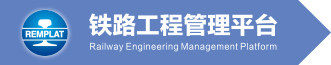
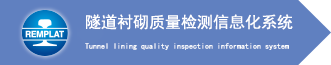
更新了首页显示

Changed region(s): [[0.2417, 0.1846, 0.9063, 0.5538], [0.2417, 0.6462, 0.8761, 0.8]]

diff --git a/src/views/system/detectionInformation/index.vue b/src/views/system/detectionInformation/index.vue
@@ -157,13 +157,13 @@
         <el-table-column prop="testId" label="报检号" />
         <el-table-column prop="detectionLineBiaohao" label="测线编号" />
         <el-table-column prop="detectionData" label="检测数据-上传/下载" />
-        <el-table-column prop="detectionPhotos" label="现场照片-上传/下载"></el-table-column>
-        <el-table-column prop="radarPhotos" label="雷达图谱-上传/下载" >
+        <el-table-column prop="detectionPhotos" label="现场照片-上传/下载" />
+        <el-table-column prop="radarPhotos" label="雷达图谱-上传/下载">
           <template slot-scope="scope">
             <el-button mutilline="true" type="text" @click="updateRadarPhotosDialog(scope.row)">上传</el-button>
             <el-button mutilline="true" type="text" @click="downloadRadarPhotos(scope.row,scope.row.radarPhotos)">下载</el-button>
             {{ scope.row.radarPhotos }}
-            <el-dialog append-to-body :close-on-click-modal="false"  :visible.sync="uploadRadarDialogIs" :title="crud.status.add ? '文件上传' : '编辑文件'" width="500px">
+            <el-dialog append-to-body :close-on-click-modal="false" :visible.sync="uploadRadarDialogIs" :title="crud.status.add ? '文件上传' : '编辑文件'" width="500px">
               <el-form ref="form" :model="form" size="small" label-width="80px">
                 <el-form-item label="上传">
                   <!--   上传文件   -->
@@ -175,7 +175,7 @@
                     :headers="headers"
                     :on-success="handleSuccess"
                     :on-error="handleError"
-                    :action=updateRadarPhotoPath
+                    :action="updateRadarPhotoPath"
                     :data="{data:dataid}"
                   >
                     <div class="eladmin-upload" onclick=""><i class="el-icon-upload" /> 添加文件</div>
@@ -190,12 +190,12 @@
             </el-dialog>
           </template>
         </el-table-column>
-        <el-table-column ref="docn" prop="detectionSummary" label="检测报告_上传/下载" >
+        <el-table-column ref="docn" prop="detectionSummary" label="检测报告_上传/下载">
           <template slot-scope="scope">
             <el-button mutilline="true" type="text" @click="updateDetectionSummaryDialog(scope.row)">上传</el-button>
             <el-button mutilline="true" type="text" @click="downloadDetectionSummary(scope.row,scope.row.detectionSummary)">下载</el-button>
             {{ scope.row.detectionSummary }}
-            <el-dialog append-to-body :close-on-click-modal="false"  :visible.sync="uploadDetectionSummaryDialogIs" :title="crud.status.add ? '文件上传' : '编辑文件'" width="500px">
+            <el-dialog append-to-body :close-on-click-modal="false" :visible.sync="uploadDetectionSummaryDialogIs" :title="crud.status.add ? '文件上传' : '编辑文件'" width="500px">
               <el-form ref="form" :model="form" size="small" label-width="80px">
                 <el-form-item label="上传">
                   <!--   上传文件   -->
@@ -207,7 +207,7 @@
                     :headers="headers"
                     :on-success="handleSuccess"
                     :on-error="handleError"
-                    :action=updateDetectionSummaryPath
+                    :action="updateDetectionSummaryPath"
                     :data="{data:dataid}"
                   >
                     <div class="eladmin-upload" onclick=""><i class="el-icon-upload" /> 添加文件</div>
@@ -222,12 +222,12 @@
             </el-dialog>
           </template>
         </el-table-column>
-        <el-table-column prop="others" label="其他附件_上传/下载" >
+        <el-table-column prop="others" label="其他附件_上传/下载">
           <template slot-scope="scope">
             <el-button mutilline="true" type="text" @click="uploadOthersDialog(scope.row)">上传</el-button>
             <el-button mutilline="true" type="text" @click="downloadOthers(scope.row,scope.row.others)">下载</el-button>
             {{ scope.row.others }}
-            <el-dialog append-to-body :close-on-click-modal="false"  :visible.sync="uploadOthersDialogIs" :title="crud.status.add ? '文件上传' : '编辑文件'" width="500px">
+            <el-dialog append-to-body :close-on-click-modal="false" :visible.sync="uploadOthersDialogIs" :title="crud.status.add ? '文件上传' : '编辑文件'" width="500px">
               <el-form ref="form" :model="form" size="small" label-width="80px">
                 <el-form-item label="上传">
                   <!--   上传文件   -->
@@ -239,7 +239,7 @@
                     :headers="headers"
                     :on-success="handleSuccess"
                     :on-error="handleError"
-                    :action=uploadOthersPath
+                    :action="uploadOthersPath"
                     :data="{data:dataid}"
                   >
                     <div class="eladmin-upload" onclick=""><i class="el-icon-upload" /> 添加文件</div>
@@ -303,7 +303,7 @@ import pagination from '@crud/Pagination'
 import { downloadFile } from '@/utils/index'
 import { downloadFileRaw } from '@/utils/index'
 import { generator } from '@/api/system/detectionInformation'
-import { edit } from '@/api/system/detectionInformation';
+import { edit } from '@/api/system/detectionInformation'
 import { getToken } from '@/utils/auth'
 const defaultForm = { detectionId: null, projectName: null, sectionName: null, tunnelId: null, tunnelName: null, worksiteName: null, detectionStartingDistance: null, detectionEndingDistance: null, detectionLength: null, time: null, testId: null, detectionLineBiaohao: null, detectionData: null, detectionPhotos: null, radarPhotos: null, detectionSummary: null, others: null, beizhu1: null, beizhu2: null, beizhu3: null, beizhu4: null, beizhu5: null, beizhu6: null, beizhu7: null, beizhu8: null, beizhu9: null, beizhu10: null, beizhu11: null, beizhu12: null, beizhu13: null, beizhu14: null, beizhu15: null }
 const baseUrl = process.env.VUE_APP_BASE_API === '/' ? '' : process.env.VUE_APP_BASE_API
@@ -361,33 +361,33 @@ export default {
         downloadFile(data, data, 'zip')
       })
     },
-    downloadRadarPhotos(data,name) {
+    downloadRadarPhotos(data, name) {
       // 打包下载
       generator(data, -1).then(data => {
         downloadFileRaw(data, name)
-    })
+      })
     },
-    downloadDetectionSummary(data,name) {
+    downloadDetectionSummary(data, name) {
       // 打包下载
       generator(data, -2).then(data => {
         downloadFileRaw(data, name)
       })
     },
-    downloadOthers(data,name) {
+    downloadOthers(data, name) {
       // 打包下载
       generator(data, -3).then(data => {
         downloadFileRaw(data, name)
       })
     },
-    updateRadarPhotosDialog(data){
+    updateRadarPhotosDialog(data) {
       this.dataid = data.detectionId
       this.uploadRadarDialogIs = true
     },
-    updateDetectionSummaryDialog(data){
+    updateDetectionSummaryDialog(data) {
       this.dataid = data.detectionId
       this.uploadDetectionSummaryDialogIs = true
     },
-    uploadOthersDialog(data){
+    uploadOthersDialog(data) {
       this.dataid = data.detectionId
       this.uploadOthersDialogIs = true
     },
@@ -423,14 +423,14 @@ export default {
     },
     // 监听上传失败
     handleError(e, file, fileList) {
-      const msg = JSON.parse(e.message)
+      const msg = '上传失败'
       this.$notify({
         title: msg.message,
         type: 'error',
         duration: 2500
       })
     },
-    cancel(){
+    cancel() {
       this.uploadPhotoDialog = false
     }
   }

diff --git a/src/layout/components/Sidebar/Logo.vue b/src/layout/components/Sidebar/Logo.vue
@@ -2,12 +2,12 @@
   <div class="sidebar-logo-container" :class="{'collapse':collapse}">
     <transition name="sidebarLogoFade">
       <router-link v-if="collapse" key="collapse" class="sidebar-logo-link" to="/">
-        <img v-if="logo" :src="logo" class="sidebar-logo">
-        <h1 v-else class="sidebar-title">{{ title }} </h1>
+        <!--        <img v-if="logo" :src="logo" class="sidebar-logo">-->
+        <h3 class="sidebar-title">{{ title }} </h3>
       </router-link>
       <router-link v-else key="expand" class="sidebar-logo-link" to="/">
-        <img v-if="logo" :src="logo" class="sidebar-logo">
-        <h1 class="sidebar-title">{{ title }} </h1>
+        <!--        <img v-if="logo" :src="logo" class="sidebar-logo">-->
+        <h3 class="sidebar-title">{{ title }} </h3>
       </router-link>
     </transition>
   </div>
@@ -25,7 +25,7 @@ export default {
   },
   data() {
     return {
-      title: '隧道衬砌管理系统',
+      title: '隧道衬砌质量检测信息化系统',
       logo: Logo
     }
   }

diff --git a/src/views/home.vue b/src/views/home.vue
@@ -1,7 +1,7 @@
 <template>
   <div class="dashboard-container">
     <div class="dashboard-editor-container">
-    <!-- <github-corner class="github-corner" /> -->
+      <!-- <github-corner class="github-corner" /> -->
       <div class="card-panel-text">
         <span>衬砌检测总体概况</span>
         <panel-group @handleSetLineChartData="handleSetLineChartData" />
@@ -36,7 +36,7 @@
         </el-col>
       </el-row>
       <el-row style="background:#fff;padding:16px 16px 0;margin-bottom:32px;">
-       <!-- <line-chart :chart-data="lineChartData" />  -->
+        <!-- <line-chart :chart-data="lineChartData" />  -->
         <line-chart />
       </el-row>
     </div>
@@ -77,11 +77,11 @@ export default {
     // GithubCorner,
     PanelGroup,
     LineChart,
-    RadarChart
-    // PieChart2,
-    // PieChart3,
-    // BarChart1,
-    // BarChart2,
+    RadarChart,
+    PieChart2,
+    PieChart3,
+    BarChart1,
+    BarChart2
   },
   data() {
     return {

diff --git a/src/components/Echarts/PieChart3.vue b/src/components/Echarts/PieChart3.vue
@@ -1,5 +1,5 @@
 <template>
-  <div :class="className" :style="{height:height,width:width}" ></div>
+  <div :class="className" :style="{height:height,width:width}" />
 </template>
 
 <script>
@@ -50,7 +50,7 @@ export default {
 
       this.chart.setOption({
         title: {
-          text: '报检单检测进度',
+          text: '报检单',
           subtext: '已报检单数:101单',
           left: 'center'
         },

diff --git a/src/components/Echarts/PieChart2.vue b/src/components/Echarts/PieChart2.vue
@@ -1,5 +1,5 @@
 <template>
-  <div :class="className" :style="{height:height,width:width}" ></div>
+  <div :class="className" :style="{height:height,width:width}" />
 </template>
 
 <script>
@@ -50,7 +50,7 @@ export default {
 
       this.chart.setOption({
         title: {
-          text: '隧道检测长度',
+          text: '隧道',
           subtext: '已报检长度:12561米',
           left: 'center'
         },

diff --git a/src/components/Echarts/BarChart1.vue b/src/components/Echarts/BarChart1.vue
@@ -52,7 +52,7 @@ export default {
 
       this.chart.setOption({
         title: {
-          text: '已检隧道数量（座）',
+          text: '数量（座）',
           left: 10
         },
         toolbox: {

diff --git a/src/components/Echarts/BarChart2.vue b/src/components/Echarts/BarChart2.vue
@@ -52,7 +52,7 @@ export default {
 
       this.chart.setOption({
         title: {
-          text: '已检隧道长度（米）',
+          text: '长度（米）',
           left: 10
         },
         toolbox: {
